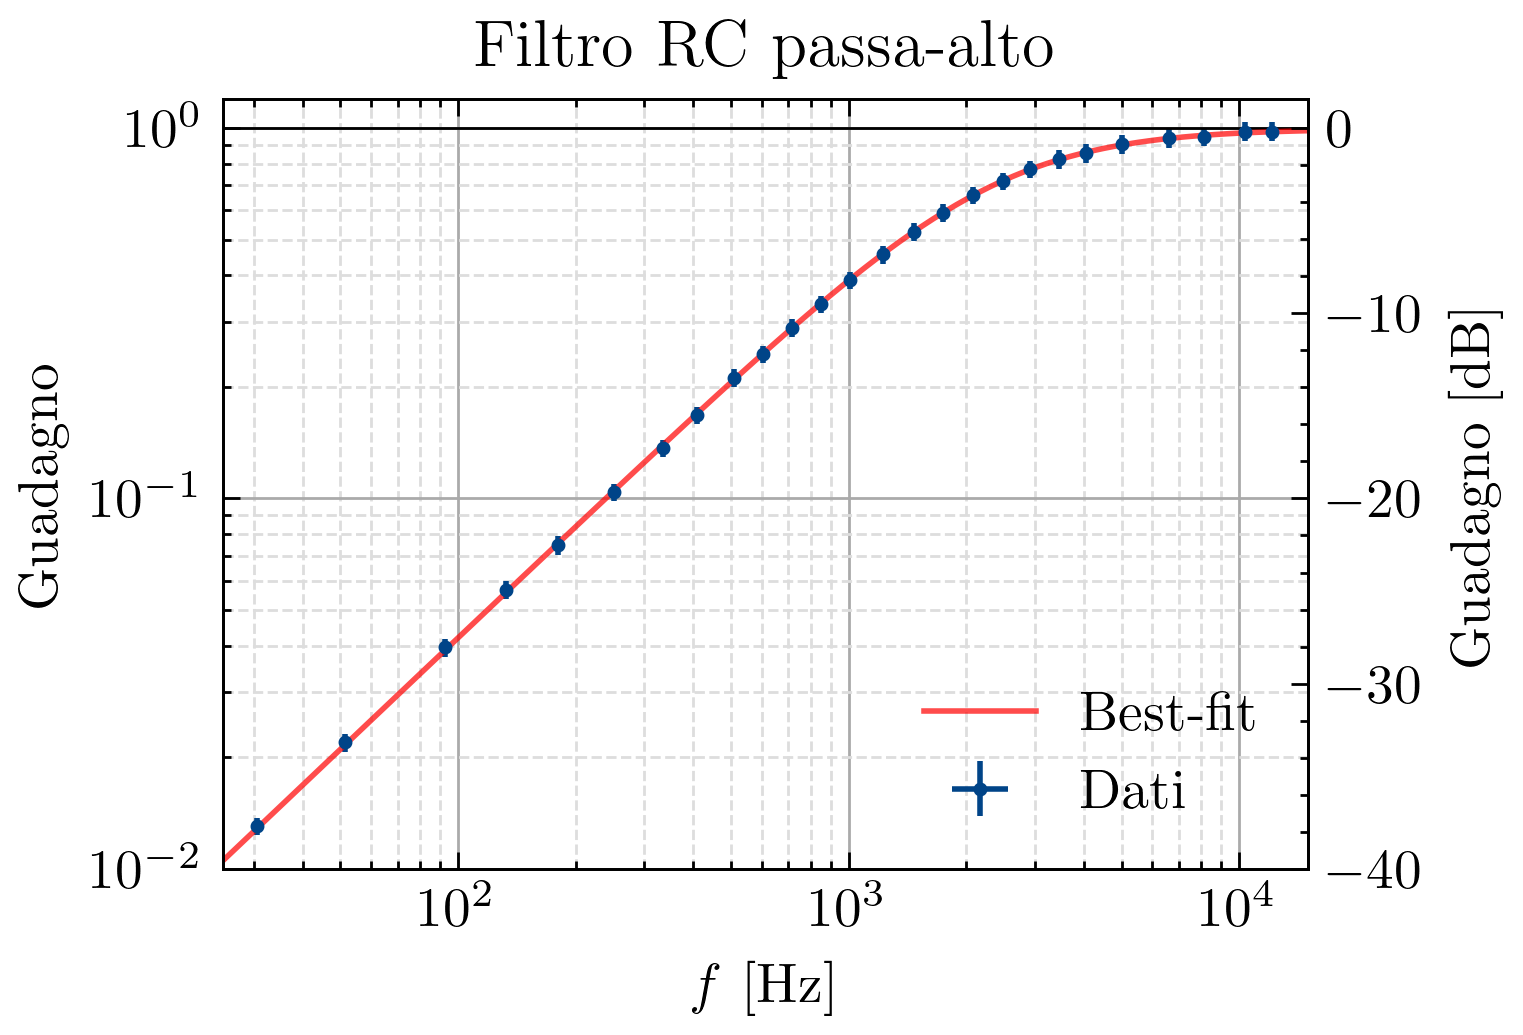
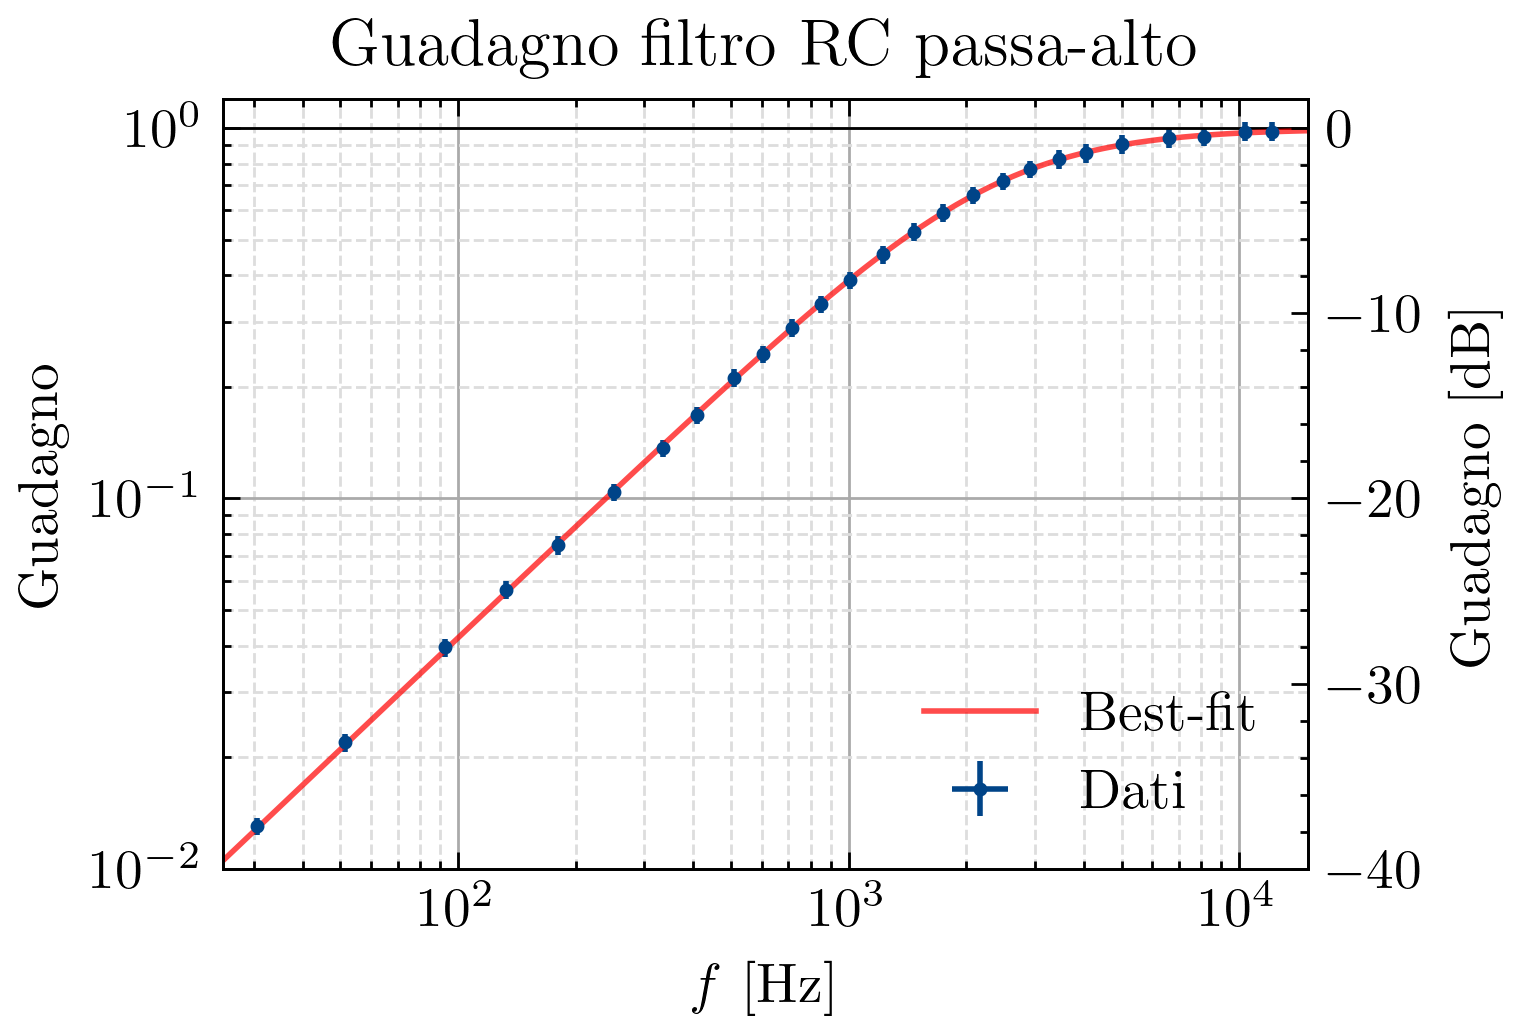
phase shift plot and best fit

Changed region(s): [[0.216, 0.0, 0.8024, 0.0928]]

diff --git a/lab2/RC_filter/RC_filter.py b/lab2/RC_filter/RC_filter.py
@@ -57,7 +57,7 @@ ax.set_yscale("log")
 ax.grid(which="minor", color="#dddddd", linestyle="--")
 ax.grid(which="major", color="#aaaaaa")
 ax.legend(loc="lower right")
-ax.set_title("Filtro RC passa-alto")
+ax.set_title("Guadagno filtro RC passa-alto")
 ax.set_xlabel("$f$ [Hz]")
 ax.set_ylabel("Guadagno")
 
@@ -70,3 +70,47 @@ ax_dB.set_ylim(20*np.log10(1e-2), 20*np.log10(1.2))
 ax_dB.set_ylabel("Guadagno [dB]")
 
 plt.savefig("Gain.png", dpi=400)
+plt.close()
+
+# remove data entries that don't have a measurement for phase shift (deltaT != 0)
+indexes = (deltaT != 0) # array of bools: True if phase shift was measured, False otherwise
+f = f[indexes]
+f_err = f_err[indexes]
+deltaT = deltaT[indexes] * 1e-3 # [s]
+deltaT_err = deltaT_err[indexes] * 1e-3 # [s]
+
+phaseshift = np.pi * (1 - 2 * deltaT * f) # [rad]
+phaseshift_err = 2 * np.pi * np.sqrt((deltaT_err * f)**2 + (deltaT * f_err)**2)
+
+def phase(f, fcut):
+    """Phase model for a RC high-pass filter"""
+    return np.arctan(fcut/f)
+
+# find best-fit parameter for the cutoff frequency, using phase shift data
+init = [popt[0]]
+popt, pcov = curve_fit(phase, f, phaseshift, sigma=phaseshift_err, p0=init, absolute_sigma=False)
+perr = np.sqrt(np.diag(pcov))
+k2 = (((phaseshift - phase(f, *popt))/phaseshift_err)**2).sum()
+ndof = len(phaseshift) - 1
+print("\nCutoff frequency (best fit) [Hz]", popt[0], perr[0])
+print("Chi2/ndof", k2, ndof, k2/ndof)
+
+# plot parameters
+plt.style.use(["science"])
+plt.figure(figsize=(3.5, 2.5))
+
+# plot data points and model
+plt.errorbar(f, phaseshift, xerr=f_err, yerr=phaseshift_err, fmt='.', markersize=3, color="#004488", label="Dati", zorder=3)
+plt.plot(xx, phase(xx, *popt), color="red", label="Best-fit", alpha=0.7, zorder=2)
+
+plt.xscale("log")
+plt.xlim(25,15000)
+plt.ylim(0, 1.65)
+plt.grid(which="minor", color="#dddddd", linestyle="--")
+plt.grid(which="major", color="#aaaaaa")
+plt.legend(loc="lower left")
+plt.title("Sfasamento filtro RC passa-alto")
+plt.xlabel("$f$ [Hz]")
+plt.ylabel("$\\Delta \\varphi$ [rad]")
+
+plt.savefig("Phase shift.png", dpi=400)
